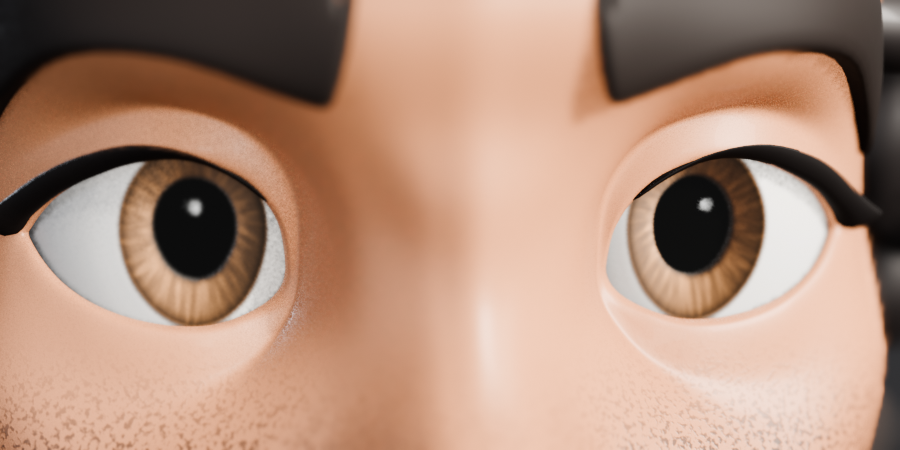
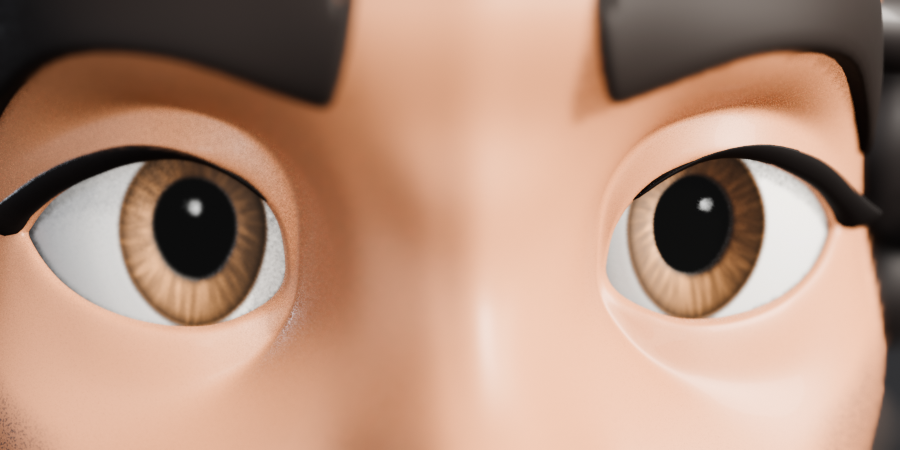
fix(route-c): beard-region stubble mask with a defined edge; finer, softer dots
Reviewers flagged the speckle stubble as reading like dirt. Boards re-rendered.

diff --git a/blender/bakeoff/route_c_rain.py b/blender/bakeoff/route_c_rain.py
@@ -789,11 +789,12 @@ b.inputs["Coat Weight"].default_value = 0.04
 col = mixrgb(nt, attr_node(nt, "lip"), SKIN, LIPC)
 tc = nt.nodes.new("ShaderNodeTexCoord")
 nz = nt.nodes.new("ShaderNodeTexNoise")
-nz.inputs["Scale"].default_value = 1100.0
+nz.inputs["Scale"].default_value = 2600.0  # fine stubble dots, not speckle
 nz.inputs["Detail"].default_value = 1.0
 nt.links.new(tc.outputs["Object"], nz.inputs["Vector"])
 ramp = nt.nodes.new("ShaderNodeValToRGB")
-ramp.color_ramp.elements[0].position, ramp.color_ramp.elements[1].position = 0.50, 0.66
+ramp.color_ramp.elements[0].position, ramp.color_ramp.elements[1].position = 0.52, 0.64
+ramp.color_ramp.elements[1].color = (0.55, 0.55, 0.55, 1)  # dots stay soft
 nt.links.new(nz.outputs["Fac"], ramp.inputs["Fac"])
 dots = nt.nodes.new("ShaderNodeMath")
 dots.operation = "MULTIPLY"
@@ -802,15 +803,15 @@ nt.links.new(attr_node(nt, "stub"), dots.inputs[1])
 shade = nt.nodes.new("ShaderNodeMath")
 shade.operation = "MULTIPLY"
 nt.links.new(attr_node(nt, "stub"), shade.inputs[0])
-shade.inputs[1].default_value = 0.22
+shade.inputs[1].default_value = 0.32  # even blue-grey shadow carries the read
 both = nt.nodes.new("ShaderNodeMath")
 both.operation, both.use_clamp = "ADD", True
 nt.links.new(dots.outputs[0], both.inputs[0])
 nt.links.new(shade.outputs[0], both.inputs[1])
-col = mixrgb(nt, both.outputs[0], col, (0.030, 0.018, 0.014))
+col = mixrgb(nt, both.outputs[0], col, (0.040, 0.034, 0.036))  # cool grey-brown, not mud
 nt.links.new(col, b.inputs["Base Color"])
 bumpn = nt.nodes.new("ShaderNodeBump")
-bumpn.inputs["Strength"].default_value = 0.25
+bumpn.inputs["Strength"].default_value = 0.1
 bumpn.inputs["Distance"].default_value = 0.0006
 nt.links.new(dots.outputs[0], bumpn.inputs["Height"])
 nt.links.new(bumpn.outputs["Normal"], b.inputs["Normal"])
@@ -832,9 +833,13 @@ for v in hme.vertices:
     lip[v.index] = min(1.0, sum(g.weight for g in v.groups if g.group in lip_idx))
 Pn = neutral_pos["GEO-rain-head"]
 ax_, ay_, az_ = np.abs(Pn[:, 0]), Pn[:, 1], Pn[:, 2]
-# jaw, chin, upper lip, sideburns and the underside of the neck; fades up the cheek, away from nostrils and lips
-stub = sstep(1.455, 1.425, az_) * sstep(-0.02, -0.07, ay_)
+# Beard region with a defined edge (reviewers: the old soft mask read as dirt across the cheeks). The cheek line runs
+# from the sideburn (|x| 0.095, z 1.47) down to the mouth corner (|x| 0.035, z 1.405), with a 3 mm falloff.
+z_line = 1.405 + np.clip((ax_ - 0.035) / 0.06, 0.0, 1.0) * 0.065
+stub = sstep(z_line + 0.003, z_line - 0.003, az_) * sstep(0.02, -0.03, ay_)
 stub = np.maximum(stub, 0.85 * sstep(1.50, 1.47, az_) * sstep(0.095, 0.115, ax_) * sstep(0.0, -0.05, ay_))
+moustache = sstep(1.426, 1.419, az_) * sstep(1.397, 1.404, az_) * (1 - sstep(0.03, 0.037, ax_))
+stub = np.maximum(stub, 0.8 * moustache)
 stub *= 1 - 0.9 * sstep(0.5, 0.9, lip)
 nose = sstep(1.46, 1.43, az_) * (1 - sstep(0.012, 0.03, ax_)) * sstep(1.40, 1.425, az_)  # keep the philtrum light
 stub = stub * (1 - 0.6 * nose)

diff --git a/docs/production/PROGRESS.md b/docs/production/PROGRESS.md
@@ -30,6 +30,7 @@ than one or two of them at once. Every such download also needs the owner's appr
 | 1 | Usage checkpoint: WIP commit + push at 85% (user rule) | done | this commit | pushed to origin/prod/phase1-look-route |
 | 1 | Boards + lead scoring (`phase1/REVIEW.md`) | done | 3739f08 | (c) 6.73 vs (b) 4.95; recommend (c) as a hybrid base |
 | 1 | Independent review (Opus, blind) | done | this commit | (c) 6.2 vs (b) 3.8; agrees with the lead: route (c) |
+| 1 | Fix pass on route (c): stubble mask (defined beard edge, fine soft dots) | done | this commit | reviewers' defect #2; hair is now the top defect |
 | 1 | Owner side-by-side + route approval | waiting on owner | — | boards in `phase1/boards/` |
 | 1 | Bake-off on Kai: (a) image-to-3D, (b) procedural v2, (c) CC-BY base | not started | — | judged 40% face likeness, 25% expressiveness, 15% eyes |
 | 2 | Cast production (7 × 3 looks) | not started | — | |
